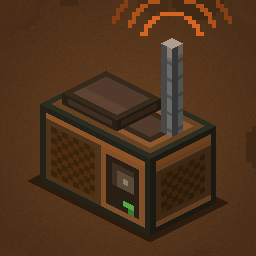
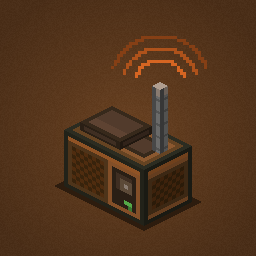
Update README, version bump, and add portable radio rendering billboard, new create specific recipes

diff --git a/src/main/java/me/jamino/analogairwaves/client/PortableRadioRenderer.java b/src/main/java/me/jamino/analogairwaves/client/PortableRadioRenderer.java
@@ -1,0 +1,150 @@
+package me.jamino.analogairwaves.client;
+
+import com.mojang.blaze3d.vertex.PoseStack;
+import com.mojang.blaze3d.vertex.VertexConsumer;
+import me.jamino.analogairwaves.AnalogAirwaves;
+import me.jamino.analogairwaves.block.PortableRadioBlock;
+import me.jamino.analogairwaves.block.entity.PortableRadioBlockEntity;
+import net.minecraft.client.Minecraft;
+import net.minecraft.client.renderer.LightTexture;
+import net.minecraft.client.renderer.MultiBufferSource;
+import net.minecraft.client.renderer.RenderType;
+import net.minecraft.client.renderer.blockentity.BlockEntityRenderer;
+import net.minecraft.client.renderer.blockentity.BlockEntityRendererProvider;
+import net.minecraft.core.Direction;
+import net.minecraft.resources.ResourceLocation;
+import net.minecraft.world.level.block.state.BlockState;
+import net.minecraft.world.phys.Vec3;
+import org.joml.Matrix4f;
+import org.joml.Quaternionf;
+
+/**
+ * Draws the broadcast waves above a placed portable radio that is actively playing a station.
+ *
+ * <p>The waves are a camera-facing billboard rather than geometry, so they read the same from any
+ * angle, and they are deliberately gated on playback rather than power: a radio that is switched
+ * on but tuned to a dead frequency is silent, and silent radios should not appear to transmit.
+ */
+public final class PortableRadioRenderer implements BlockEntityRenderer<PortableRadioBlockEntity> {
+    /**
+     * Drawn straight from the texture file rather than the block atlas: no block model references
+     * it, so it would never be stitched in. That means the .mcmeta animation does not apply
+     * either, and the frames are cycled by hand through the uv window below.
+     */
+    private static final ResourceLocation WAVES = ResourceLocation.fromNamespaceAndPath(
+            AnalogAirwaves.MOD_ID, "textures/block/broadcast_waves.png");
+
+    /** The texture is a vertical strip of this many 16x16 frames. */
+    private static final int FRAMES = 3;
+
+    /** Game ticks each frame is held for. */
+    private static final int TICKS_PER_FRAME = 6;
+
+    /**
+     * Height of the billboard's centre above the block origin.
+     *
+     * <p>The arcs are drawn around y=13 of a 16px frame rather than at its middle, so the quad's
+     * visual centre sits above its geometric centre. This offset already accounts for that: it
+     * puts the arcs just over the aerial tip (model y=15) instead of floating clear of it.
+     */
+    private static final float HEIGHT = 1.15F;
+
+    /** Billboard size in blocks. */
+    private static final float SIZE = 0.55F;
+
+    /**
+     * The aerial's centre in model space for a north-facing radio (model x=11.5, z=7.5).
+     * {@link #aerialOffset} rotates this with the block's FACING.
+     */
+    private static final float AERIAL_X = 11.5F / 16.0F;
+    private static final float AERIAL_Z = 7.5F / 16.0F;
+
+    public PortableRadioRenderer(BlockEntityRendererProvider.Context context) {
+    }
+
+    @Override
+    public void render(PortableRadioBlockEntity radio, float partialTick, PoseStack poseStack,
+            MultiBufferSource buffers, int packedLight, int packedOverlay) {
+        if (!shouldDrawWaves(radio)) {
+            return;
+        }
+
+        poseStack.pushPose();
+        Vec3 aerial = aerialOffset(radio.getBlockState());
+        poseStack.translate(aerial.x, HEIGHT, aerial.z);
+
+        // Face the camera. Using the camera's own rotation keeps the billboard upright rather
+        // than tumbling when the player looks up or down.
+        Quaternionf facing = Minecraft.getInstance().getEntityRenderDispatcher().cameraOrientation();
+        poseStack.mulPose(facing);
+
+        VertexConsumer buffer = buffers.getBuffer(RenderType.entityCutout(WAVES));
+        Matrix4f matrix = poseStack.last().pose();
+        float half = SIZE / 2.0F;
+
+        // Advance the frame off world time, so every radio's waves stay in step with each other.
+        long time = radio.getLevel() == null ? 0L : radio.getLevel().getGameTime();
+        int frame = (int) ((time / TICKS_PER_FRAME) % FRAMES);
+        float v0 = frame / (float) FRAMES;
+        float v1 = (frame + 1) / (float) FRAMES;
+
+        // Full-bright: the waves are emissive, so they stay legible in an unlit room.
+        PoseStack.Pose pose = poseStack.last();
+        int light = LightTexture.FULL_BRIGHT;
+        vertex(buffer, matrix, pose, -half, -half, 0.0F, v1, light, packedOverlay);
+        vertex(buffer, matrix, pose, half, -half, 1.0F, v1, light, packedOverlay);
+        vertex(buffer, matrix, pose, half, half, 1.0F, v0, light, packedOverlay);
+        vertex(buffer, matrix, pose, -half, half, 0.0F, v0, light, packedOverlay);
+
+        poseStack.popPose();
+    }
+
+    private static void vertex(VertexConsumer buffer, Matrix4f matrix, PoseStack.Pose pose,
+            float x, float y, float u, float v, int light, int overlay) {
+        buffer.addVertex(matrix, x, y, 0.0F)
+                .setColor(255, 255, 255, 255)
+                .setUv(u, v)
+                .setOverlay(overlay)
+                .setLight(light)
+                .setNormal(pose, 0.0F, 0.0F, 1.0F);
+    }
+
+    /**
+     * The aerial's position within the block, rotated to match the radio's facing.
+     *
+     * <p>The model's coordinates describe a north-facing radio, but the blockstate spins the
+     * whole model, so a fixed offset would leave the waves hanging off the wrong corner on any
+     * other facing.
+     */
+    private static Vec3 aerialOffset(BlockState state) {
+        Direction facing = state.hasProperty(PortableRadioBlock.FACING)
+                ? state.getValue(PortableRadioBlock.FACING)
+                : Direction.NORTH;
+
+        // Rotate around the block's centre by the facing's step off north.
+        double dx = AERIAL_X - 0.5D;
+        double dz = AERIAL_Z - 0.5D;
+        return switch (facing) {
+            case SOUTH -> new Vec3(0.5D - dx, 0.0D, 0.5D - dz);
+            case WEST -> new Vec3(0.5D + dz, 0.0D, 0.5D - dx);
+            case EAST -> new Vec3(0.5D - dz, 0.0D, 0.5D + dx);
+            default -> new Vec3(0.5D + dx, 0.0D, 0.5D + dz);
+        };
+    }
+
+    /**
+     * Waves need the radio to be powered, its blockstate to agree, and the client to currently
+     * have a station playing for it. The blockstate check keeps the visual honest during the tick
+     * where a radio is toggled off but its stop packet has not landed yet.
+     */
+    private static boolean shouldDrawWaves(PortableRadioBlockEntity radio) {
+        if (!radio.isPowered()) {
+            return false;
+        }
+        BlockState state = radio.getBlockState();
+        if (state.hasProperty(PortableRadioBlock.POWERED) && !state.getValue(PortableRadioBlock.POWERED)) {
+            return false;
+        }
+        return ClientPlacedReceivers.isPlayingAt(radio.getBlockPos());
+    }
+}

diff --git a/src/main/java/me/jamino/analogairwaves/client/AirwavesClientRenderers.java b/src/main/java/me/jamino/analogairwaves/client/AirwavesClientRenderers.java
@@ -1,0 +1,21 @@
+package me.jamino.analogairwaves.client;
+
+import me.jamino.analogairwaves.AnalogAirwaves;
+import me.jamino.analogairwaves.registry.AirwavesBlockEntities;
+import net.neoforged.api.distmarker.Dist;
+import net.neoforged.bus.api.SubscribeEvent;
+import net.neoforged.fml.common.EventBusSubscriber;
+import net.neoforged.neoforge.client.event.EntityRenderersEvent;
+
+/** Client renderer registration for this mod's block entities. */
+@EventBusSubscriber(modid = AnalogAirwaves.MOD_ID, value = Dist.CLIENT)
+public final class AirwavesClientRenderers {
+    @SubscribeEvent
+    public static void registerRenderers(EntityRenderersEvent.RegisterRenderers event) {
+        event.registerBlockEntityRenderer(AirwavesBlockEntities.PORTABLE_RADIO.get(),
+                PortableRadioRenderer::new);
+    }
+
+    private AirwavesClientRenderers() {
+    }
+}

diff --git a/src/main/java/me/jamino/analogairwaves/client/ClientPlacedReceivers.java b/src/main/java/me/jamino/analogairwaves/client/ClientPlacedReceivers.java
@@ -53,6 +53,17 @@ public final class ClientPlacedReceivers {
     }
 
     /**
+     * Whether the radio at {@code pos} is currently playing a station.
+     *
+     * <p>This is the renderer's cue for the broadcast waves: it is true only while the server is
+     * actively pushing a station for that radio, so a radio that is powered but tuned to a dead
+     * frequency draws nothing.
+     */
+    public static boolean isPlayingAt(BlockPos pos) {
+        return ACTIVE.containsKey(pos);
+    }
+
+    /**
      * Whether a placed radio is already playing this exact broadcast. The handheld receiver uses
      * this to know its stream has been taken over by a radio that was just placed.
      */

diff --git a/README.md b/README.md
@@ -1,18 +1,18 @@
-<p align="center">
-  <img src="docs/banner.png" alt="Analog Airwaves" width="800">
-</p>
 
-A small NeoForge 1.21.1 radio-station extension for [Analog Audio](https://modrinth.com/mod/analog-audio), adding broadcast transmitters and portable radios.
+A small NeoForge 1.21.1 radio-station extension for [Analog Audio](https://modrinth.com/mod/analog-audio), adding radio broadcasters and portable radios.
 
-Place a transmitter directly on top of an Analog Audio radio, tune it to a frequency, then tune a portable radio to the same frequency to listen to your radio station!!
+Place a radio broadcaster directly on top of an Analog Audio radio, tune it to a frequency, then tune a portable radio to the same frequency to listen to your radio station!!
 
 ## What's up
 
-- **Transmitters** broadcast the radio beneath them across the dimension by default (Can be changed to universal inlcuding modded dimensions in the config). They **only** broadcast while their chunk is loaded.
+- **Radio Broadcasters** broadcast the radio beneath them across the dimension by default (Can be changed to universal inlcuding modded dimensions in the config). They **only** broadcast while their chunk is loaded.
 - **Portable radios** play music while held, or while placed and powered on.
 - Placed radios use the station's own broadcast volume
-- Multiple loaded transmitters on the same frequency cause interference, and receivers on that frequency hear static instead of a station.
+- Multiple loaded radio broadcasters on the same frequency cause interference, and receivers on that frequency hear static instead of a station.
 - **Create mod integration** When create mod is installed seperate create specific recipes will be used.
+
+
+Todo: Create recipes, Seperate radio block volume from portable radio volume.
 
 ### Requires [Analog Audio 0.1.5-hotfix.1](https://modrinth.com/mod/analog-audio/version/BshMjyFt). [Source](https://github.com/palmmc/AnalogAudio)
 ### Recommended [Create Power Loader](https://modrinth.com/mod/create-power-loader) or [Chunk Loaders](https://modrinth.com/mod/chunk-loaders).
